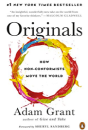
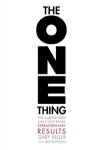
finished project

diff --git a/src/pages/Home.vue b/src/pages/Home.vue
@@ -3,7 +3,7 @@
     <Header v-if="isDesktop" />
 
     <div class="home">
-      
+    
       <Search />
 
       <h1 class="home-title">
@@ -44,7 +44,10 @@
                   </section>
 
                   <aside>
-                    <img src="../assets/icon-livro.png" alt="Book Illustration">
+                    <div class="asset-path"><img src="../assets/asset-path.svg" alt=""></div>
+                    <div class="asset-rectangle"><img src="../assets/asset-rectangle.svg" alt=""></div>
+                    <div class="asset-oval"><img src="../assets/asset-oval.svg" alt=""></div>
+                    <img class="home-discover_box--item_thumb" src="../assets/icon-livro.png" alt="Book Illustration">
                   </aside>
                 </router-link>
               </div>
@@ -68,7 +71,10 @@
                   </section>
 
                   <aside>
-                    <img src="../assets/icon-livro.png" alt="Book Illustration">
+                    <div class="asset-path"><img src="../assets/asset-path.svg" alt=""></div>
+                    <div class="asset-rectangle"><img src="../assets/asset-rectangle.svg" alt=""></div>
+                    <div class="asset-oval"><img src="../assets/asset-oval.svg" alt=""></div>
+                    <img class="home-discover_box--item_thumb" src="../assets/icon-livro2.png" alt="Book Illustration">
                   </aside>
                 </router-link>
               </div>
@@ -91,11 +97,14 @@
             <router-link :to="{ name: 'Book', params: { id: 'eLRhDgAAQBAJ' } }" title="Go to Book Page">
               <div class="bg"></div>
               <aside>
-                <img src="../assets/icon-livro2.png" alt="Book Illustration">
+                <img src="../assets/icon-livro3.png" alt="Book Illustration">
               </aside>
 
               <section>
                 <div class="home-current_box--item_head">
+                  <div class="asset-rectangle"><img src="../assets/asset-rectangle.svg" alt=""></div>
+                  <div class="asset-oval"><img src="../assets/asset-oval.svg" alt=""></div>
+
                   <h2 class="home-current_box--item_title">
                     Originals
                   </h2>
@@ -149,7 +158,10 @@
                   </section>
 
                   <aside>
-                    <img src="../assets/icon-livro.png" alt="Book Illustration">
+                    <div class="asset-path"><img src="../assets/asset-path.svg" alt=""></div>
+                    <div class="asset-rectangle"><img src="../assets/asset-rectangle.svg" alt=""></div>
+                    <div class="asset-oval"><img src="../assets/asset-oval.svg" alt=""></div>
+                    <img class="home-discover_box--item_thumb" src="../assets/icon-livro.png" alt="Book Illustration">
                   </aside>
                 </router-link>
               </div>
@@ -173,7 +185,10 @@
                   </section>
 
                   <aside>
-                    <img src="../assets/icon-livro.png" alt="Book Illustration">
+                    <div class="asset-path"><img src="../assets/asset-path.svg" alt=""></div>
+                    <div class="asset-rectangle"><img src="../assets/asset-rectangle.svg" alt=""></div>
+                    <div class="asset-oval"><img src="../assets/asset-oval.svg" alt=""></div>
+                    <img class="home-discover_box--item_thumb" src="../assets/icon-livro3.png" alt="Book Illustration">
                   </aside>
                 </router-link>
               </div>
@@ -196,11 +211,14 @@
             <router-link :to="{ name: 'Book', params: { id: 'eLRhDgAAQBAJ' } }" title="Go to Book Page">
               <div class="bg"></div>
               <aside>
-                <img src="../assets/icon-livro2.png" alt="Book Illustration">
+                <img src="../assets/icon-livro3.png" alt="Book Illustration">
               </aside>
 
               <section>
                 <div class="home-current_box--item_head">
+                  <div class="asset-rectangle"><img src="../assets/asset-rectangle.svg" alt=""></div>
+                  <div class="asset-oval"><img src="../assets/asset-oval.svg" alt=""></div>
+
                   <h2 class="home-current_box--item_title">
                     Originals
                   </h2>
@@ -246,6 +264,8 @@
 import Header from '@/components/Header.vue'
 import Search from '@/components/Search.vue'
 import Footer from '@/components/Footer.vue'
+
+// Import Slick
 import VueSlickCarousel from "vue-slick-carousel";
 import "vue-slick-carousel/dist/vue-slick-carousel.css";
 import "vue-slick-carousel/dist/vue-slick-carousel-theme.css";
@@ -260,7 +280,7 @@ export default {
   },
   computed: {
     isDesktop() {
-      if (screen.width >= 768) return true
+      if (screen.width >= 769) return true
       else return false
     },
   },
@@ -276,14 +296,6 @@ export default {
         "slidesToShow": 1,
         "slidesToScroll": 1
       },
-      /*settingsMobile: {
-        "centerMode": true,
-        "centerPadding": "20px",
-        "focusOnSelect": true,
-        "infinite": true,
-        "slidesToShow": 3,
-        "speed": 500
-      },*/
       settingsDesktop: {
         "dots": true,
         "dotsClass": "slick-dots custom-dot-class",
@@ -317,7 +329,8 @@ export default {
 /* ============= Imports ============= */
 @import '@/style/variables.scss';
 
-.slick-prev:before, .slick-next:before {
+.slick-prev:before,
+.slick-next:before {
   color: $color-pink !important;
 }
 
@@ -339,7 +352,7 @@ export default {
   }
 
   &-discover {
-    margin-bottom: 1.875rem;
+    margin-bottom: 2.813rem;
     position: relative;
 
     .asset {
@@ -348,6 +361,34 @@ export default {
       height: 69px;
       position: absolute;
       right: 0;
+      top: 20px;
+    }
+
+    aside {
+      position: relative;
+
+      & > div {
+        position: absolute;
+      }
+
+      .asset-path {
+        left: -0.75rem;
+        top: -0.625rem;
+      }
+
+      .asset-rectangle {
+        left: -2.313rem;
+        bottom: 1.563rem;
+      }
+
+      .asset-oval {
+        left: -2.313rem;
+        top: 0;
+      }
+
+      .home-discover_box--item_thumb {
+        width: 72px;
+      }
     }
     
     &_box {
@@ -430,6 +471,7 @@ export default {
     &_box {
       display: flex;
       align-items: center;
+      position: relative;
 
       a {
         text-decoration: none;
@@ -440,6 +482,22 @@ export default {
       }
 
       &--item {
+        &_head {
+          & > div {
+            position: absolute;
+          }
+
+          .asset-rectangle {
+            right: 0;
+            bottom: 1.375rem;
+          }
+
+          .asset-oval {
+            right: 20%;
+            top: 0.75rem;
+          }
+        }
+
         &_title {
           font-family: $font-secondary;
           font-size: 1.688rem;
@@ -507,6 +565,7 @@ export default {
     font-size: 1.125rem;
     letter-spacing: 0.5px;
     line-height: 21.09px;
+    font-weight: 500;
   }
 
   .cta-box {
@@ -518,12 +577,19 @@ export default {
   }
 }
 
+
 /* ============= Responsive ============= */
+@media screen and (min-width: 769px) and (max-width: 1200px) {
+  .home {
+    padding: 0 3.125rem !important;
+  }
+}
+
 @media screen and (min-width: 769px) {
   .home {
     max-height: initial;
     padding: 0;
-    width: 1200px;
+    max-width: 1200px;
     margin: 0 auto;
     overflow: auto;
 
@@ -531,6 +597,15 @@ export default {
       font-size: 1.75rem;
       margin: 3.125rem 0 rem 0;
       text-align: center;
+    }
+
+    .title-box {
+      font-size: 1.5rem;
+      font-weight: 500;
+    }
+
+    .cta-box {
+      font-size: 1rem;
     }
 
     .wrapper-desktop {
@@ -541,6 +616,10 @@ export default {
 
     &-discover {
       width: 45%;
+
+      &_box {
+        margin-left: 1.563rem;
+      }
     }
     
     &-current {

diff --git a/src/components/Header.vue b/src/components/Header.vue
@@ -78,35 +78,35 @@ export default {
 .header {
   position: initial;
 
-  &-item {
-    flex-direction: row;
-
-    a {
+    &-item {
       flex-direction: row;
-    }
 
-    &_icon {
-      width: 1rem;
-    }
+      a {
+        flex-direction: row;
+      }
 
-    svg {
-      color: $color-silver;
-    }
+      &_icon {
+        width: 1rem;
+      }
 
-    &_title {
-      color: $color-silver;
-      font-size: 1.125rem;
-      margin: 0 0 0 0.625rem;
-    }
+      svg {
+        color: $color-silver;
+      }
 
-    &_active,
-    &:hover {
-      svg,
-      .header-item_title {
-        color: $color-gray;
+      &_title {
+        color: $color-silver;
+        font-size: 1.125rem;
+        margin: 0 0 0 0.625rem;
+      }
+
+      &_active,
+      &:hover {
+        svg,
+        .header-item_title {
+          color: $color-gray;
+        }
       }
     }
   }
-}
 }
 </style>

diff --git a/src/pages/Search.vue b/src/pages/Search.vue
@@ -54,7 +54,7 @@ export default {
   props: ["id"],
   computed: {
     isDesktop() {
-      if (screen.width >= 768) return true
+      if (screen.width >= 769) return true
       else return false
     },
   },
@@ -98,7 +98,6 @@ export default {
     margin: 2.5rem 0;
 
     &_book {
-      //width: 33.33%;
       width: 6.25rem;
 
       &:nth-child(n+4){
@@ -147,7 +146,7 @@ export default {
   .books {
     max-height: initial;
     padding: 0;
-    width: 1200px;
+    max-width: 1200px;
     margin: 0 auto;
     overflow: auto;
 

diff --git a/src/pages/Book.vue b/src/pages/Book.vue
@@ -77,7 +77,8 @@ export default {
     }
   },
   created() {
-    this.getBook();
+    if(this.id) return this.getBook(this.id);
+    else return this.$router.push('/');
   },
 }
 </script>
@@ -223,7 +224,7 @@ main {
       .wrapper {
         max-height: initial;
         padding: 0;
-        width: 1200px;
+        max-width: 1200px;
         margin: 0 auto;
         overflow: auto;
       }

diff --git a/src/components/Search.vue b/src/components/Search.vue
@@ -52,6 +52,7 @@ export default {
   }
 }
 
+
 /* ============= Responsive ============= */
 @media screen and (min-width: 769px) {
   .wrapper-search {

diff --git a/src/App.vue b/src/App.vue
@@ -10,8 +10,6 @@
 
 export default {
   name: 'App',
-  components: {
-  },
 }
 </script>
 
